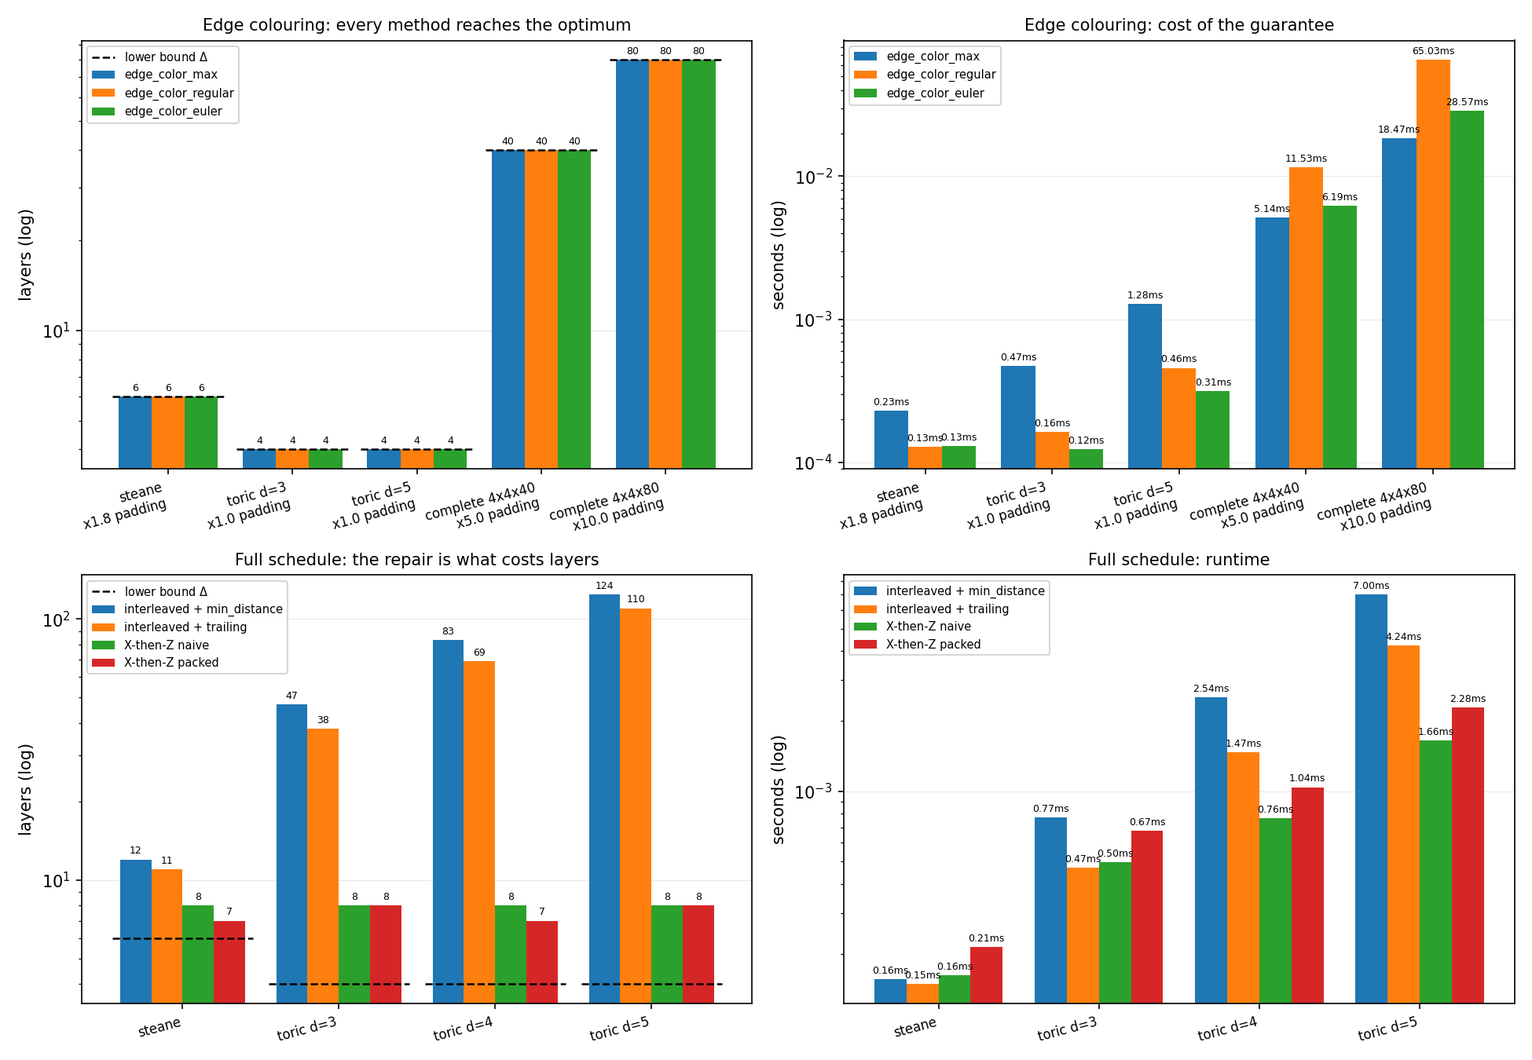
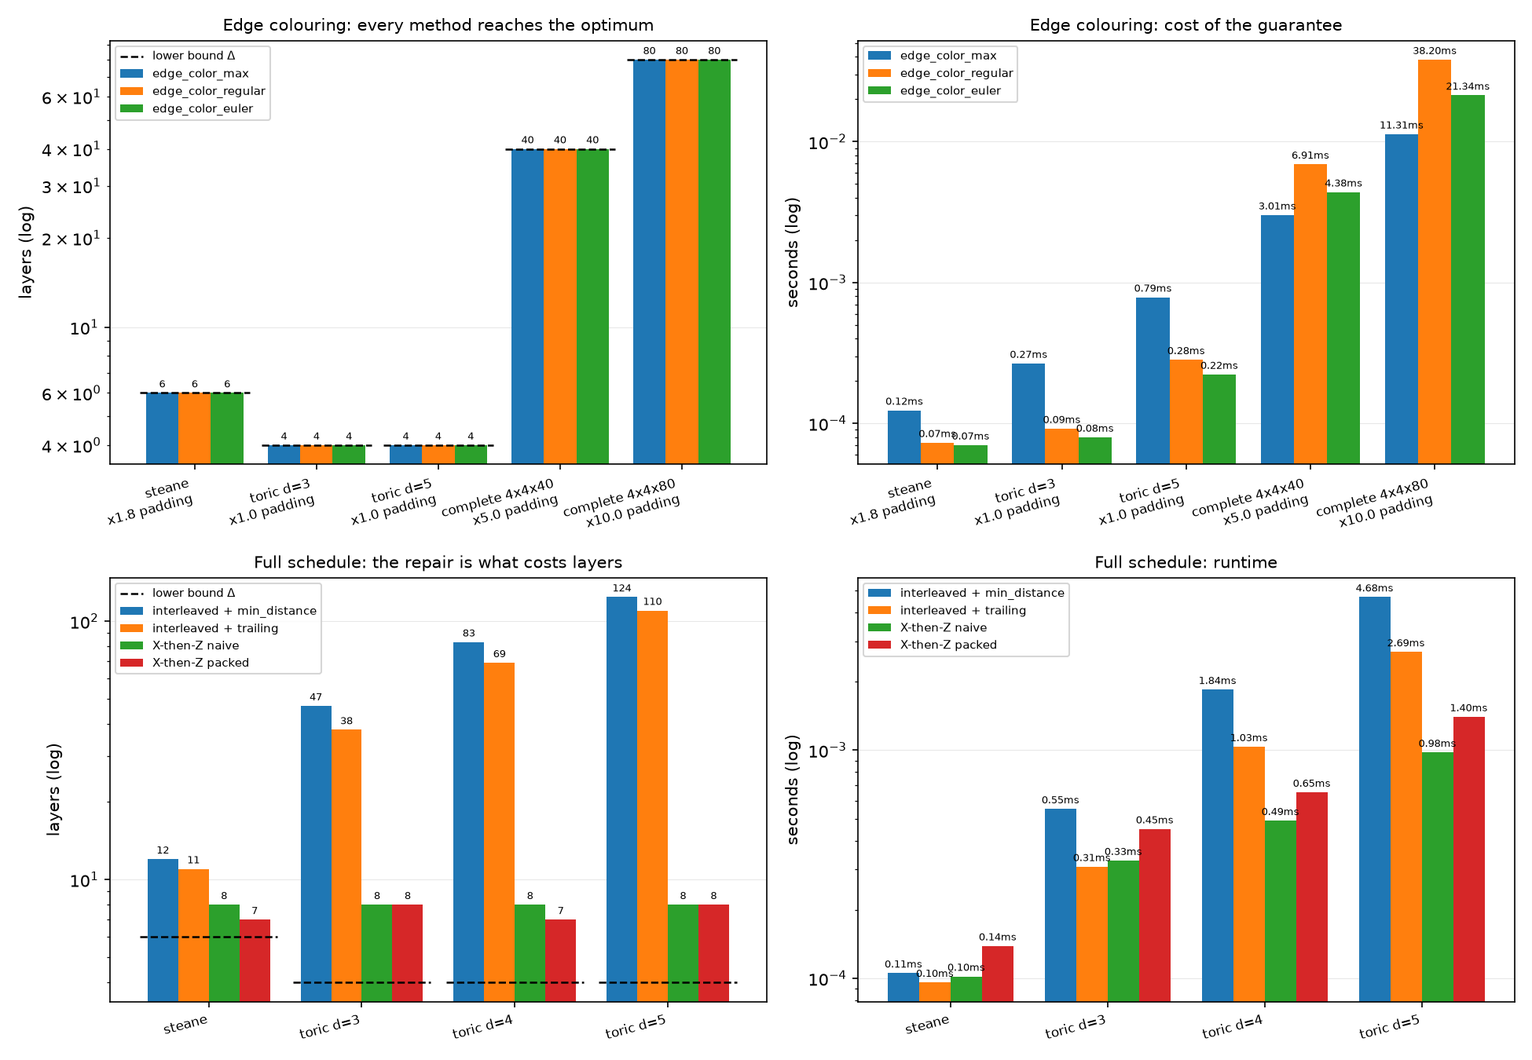
Final touches

diff --git a/README.md b/README.md
@@ -1,4 +1,4 @@
-# River Lane Technical Challenege
+# River Lane Technical Challenge
 
 _written by **Vlad Filip**_
 
@@ -18,14 +18,14 @@ Run `python main.py` to reproduce the comparison of every method described below
 * `tests.py` = unit tests
 
 ## Edge Coloring
-A bipartite graph is a network whose vertices can be split into two groups. Edges on a bipartite graph exclusively connect vertices from different groups, never from the same group. The task of assigning each edge to a layer is effectively an edge coloring algorithm, where no layer contains two edges incident on the same vertex. Edge coloring is a well studied problem within mathematics, where the Koning's line coloring theorem states that the chromatic index of a bipartite graph equals its maximum degree ($\Delta$). This means that the optimal number of layers for a bipartite graph is equal to the $\Delta$.
+A bipartite graph is a network whose vertices can be split into two groups. Edges on a bipartite graph exclusively connect vertices from different groups, never from the same group. The task of assigning each edge to a layer is effectively an edge coloring algorithm, where no layer contains two edges incident on the same vertex. Edge coloring is a well studied problem within mathematics, where the König's line coloring theorem states that the chromatic index of a bipartite graph equals its maximum degree ($\Delta$). This means that the optimal number of layers for a bipartite graph is equal to the $\Delta$.
 
 I have considered 3 ways in which the edge coloring of a bipartite graph can be solved:
-1. **Hopcroft-Karp Algorithm:** A fundamental algorithm with a time complexity of $O(\Delta E\sqrt{V})$. This extracts the maximum matching (a layer of maximum members) from the bipartite graph by runing zig-zags between the vertices. The idea of this approach rests on augmenting paths that alternate between free-edge, matched-edge, free-edge, etc.. It does this in two steps: a breadth-first search (a) and a depth-first search (it flips the defined connection in the layer zig-zag). In the (a) search, we check where the nearest augmenting path is and label every vertex in its depth. An unmatched data qubit starts at depth 0. Starting at a node `u`, it finds an umatch vertex `v` and then jumps to its matched pair `pair_v[v]`. This is the zig-zag pattern. The algorithm extracts one matching, then removes the edges from the current bipartite graph and recurses until the graph is empty. Yet, we need to ensure that vertices are balanced as the algorithm iterates so that we are not left with a node with a high degree at the end. This will cause the solution to be suboptimal as we need to spill the edges of that vertex to additional layers. I considered two approaches to this problem:
+1. **Hopcroft-Karp Algorithm:** A fundamental algorithm with a time complexity of $O(\Delta E\sqrt{V})$. This extracts the maximum matching (a layer of maximum members) from the bipartite graph by running zig-zags between the vertices. The idea of this approach rests on augmenting paths that alternate between free-edge, matched-edge, free-edge, etc. It does this in two steps: a breadth-first search (a) and a depth-first search (it flips the defined connection in the layer zig-zag). In the (a) search, we check where the nearest augmenting path is and label every vertex in its depth. An unmatched data qubit starts at depth 0. Starting at a node `u`, it finds an unmatched vertex `v` and then jumps to its matched pair `pair_v[v]`. This is the zig-zag pattern. The algorithm extracts one matching, then removes the edges from the current bipartite graph and recurses until the graph is empty. Yet, we need to ensure that vertices are balanced as the algorithm iterates so that we are not left with a node with a high degree at the end. This will cause the solution to be suboptimal as we need to spill the edges of that vertex to additional layers. I considered two approaches to this problem:
 
-    * **Maximizing the cover of a layer**, so no $\Delta$-degree vertex is skipped. The HK algorithm maximizes the number of pairs, not which pairs. A graph has different maximum matchings and HP gives you an arbitrary one, running the risk of the additional layers mentioned above. To correct this, after each HK run I take every uncovered $\Delta$-degree vertex and walk an alternating path from it until I reach a vertex that is not itself $\Delta$-degree, then flip that path. The critical vertex takes the slot and the expendable one gives it up, so the matching stays the same size and is still maximum. Each walk is a single BFS at $O(V + E)$, run once per uncovered vertex, so the repair adds $O(k(V+E))$ per layer, with $k$ usually 0 or 1. The gain is worth it: on Steane, plain HK peeling needs 8 layers against a lower bound of 6, and this repair recovers the optimal 6. Across 2000 random sparse Tanner graphs, plain peeling exceeded $\Delta$ in 13.4% of cases while the repaired version never did. Its weakness is that it remains a heuristic with no proof, since it only guarantees coverage in the current layer and the residual graph has a fresh max-degree set once that layer is peeled.
+    * **Maximizing the cover of a layer**, so no $\Delta$-degree vertex is skipped. The HK algorithm maximizes the number of pairs, not which pairs. A graph has different maximum matchings and HK gives you an arbitrary one, running the risk of the additional layers mentioned above. To correct this, after each HK run I take every uncovered $\Delta$-degree vertex and walk an alternating path from it until I reach a vertex that is not itself $\Delta$-degree, then flip that path. The critical vertex takes the slot and the expendable one gives it up, so the matching stays the same size and is still maximum. Each walk is a single BFS at $O(V + E)$, run once per uncovered vertex, so the repair adds $O(k(V+E))$ per layer, with $k$ usually 0 or 1. The gain is worth it: on Steane, plain HK peeling needs 8 layers against a lower bound of 6, and this repair recovers the optimal 6. Across 2000 random sparse Tanner graphs, plain peeling exceeded $\Delta$ in 13.4% of cases while the repaired version never did. Its weakness is that it remains a heuristic with no proof, since it only guarantees coverage in the current layer and the residual graph has a fresh max-degree set once that layer is peeled.
 
-    * **Padding to a $\Delta$-regular graph**, which makes every matching perfect. By creating virtual edges and nodes to our graph to ensure a $\Delta$-regular pattern, this guratees that the algorithm would return $\Delta$ layers by peeling exactly $\Delta$ edges with one matching. This means that after we have constructed our layer matching we can remove the virtual edges and vertex and obtain a valid edge coliring solution. While this is guranteed to succeed mathematically, needs no extra validation but has an added time complexity. To build the padded graph, we scale to O(n $\Delta$), where n is the maximum number of vertices from one side of the bipartite graph. This means that if E for the padded graph is much larger than the actual E, the algorithm would be slower. Therefore, padding costs us a factor of $n\Delta / E$, which is itself a measure of how uneven the graph is: it equals 1 when the graph is already $\Delta$-regular and balanced, and grows as a single vertex starts to dominate. This is why the method suits the problem at hand. CSS codes are LDPC by construction, with a fixed stabilizer weight and a fixed qubit degree, so the ratio sits at or near 1 across the whole family. My toric graphs are already 4-regular, so padding adds zero edges and the guarantee comes for free; measured, it also runs about 2.5x faster than the repair route because it skips the repair entirely. Steane is small and lopsided (qubit 6 has degree 6, qubit 0 has degree 2) so it pays 1.75x, which still amounts to under a tenth of a millisecond.
+    * **Padding to a $\Delta$-regular graph**, which makes every matching perfect. By creating virtual edges and nodes to our graph to ensure a $\Delta$-regular pattern, this guarantees that the algorithm would return $\Delta$ layers by peeling exactly $\Delta$ edges with one matching. This means that after we have constructed our layer matching we can remove the virtual edges and vertex and obtain a valid edge coloring solution. While this is guaranteed to succeed mathematically, needs no extra validation but has an added time complexity. To build the padded graph, we scale to O(n $\Delta$), where n is the maximum number of vertices from one side of the bipartite graph. This means that if E for the padded graph is much larger than the actual E, the algorithm would be slower. Therefore, padding costs us a factor of $n\Delta / E$, which is itself a measure of how uneven the graph is: it equals 1 when the graph is already $\Delta$-regular and balanced, and grows as a single vertex starts to dominate. This is why the method suits the problem at hand. CSS codes are LDPC by construction, with a fixed stabilizer weight and a fixed qubit degree, so the ratio sits at or near 1 across the whole family. My toric graphs are already 4-regular, so padding adds zero edges and the guarantee comes for free; measured, it also runs about 2.5x faster than the repair route because it skips the repair entirely. Steane is small and lopsided (qubit 6 has degree 6, qubit 0 has degree 2) so it pays 1.75x, which still amounts to under a tenth of a millisecond.
 
 2. **Euler Splitting:** halving the degree along closed walks, $O(E\log\Delta)$ when $\Delta$ is a power of two and $O(E\sqrt{V}\log\Delta)$ in the worst case. This algorithm is built on the divide-et-impera approach (divide and conquer). Once the graph is padded every vertex has exactly $\Delta$ edges, and while that degree is even a walk always consumes edges at a vertex in arrive/leave pairs. We then split the edges of that walk alternately into two piles. This hands every vertex exactly half of its edges, which cuts the graph into two. We keep doing this until the degree reaches 1, at which point every vertex has a single edge. This means the pile is a perfect matching (one layer). The halving breaks down as soon as a degree is odd. When we have an odd case, we peel one perfect matching with Hopcroft-Karp first to return to an even degree. This remains the only place a matching is ever computed. Hence, it is what separates the best and worst cases: $\Delta = 4$ on a toric code halves to 2 and then to 1 without ever becoming odd. Yet, $\Delta = 6$ on Steane halves into two odd 3-regular graphs and needs two. Edges are tracked by their index into a flat list rather than by their endpoints. This is because padding can add several parallel edges between the same pair of vertices and only an index can tell them apart. 
 
@@ -36,31 +36,31 @@ The ordering constraint requires every X/Z check pair to share an even number of
 
 ### Ordering Fixes
 
-Once we obtained a valid edge coloring solution with $\Delta$ layers, we need to ensure the schedule respects the ordering constraint. A function called `check_ordering_constraint` iterates over the graph and check all the dictionary X-then-Z parities. It returns a broken list containing tuples of the (x, z) broken pair, as well as the `S` (parity check group) and `I` (data qubits of the ancilla pair) lists. To do this, I consider to post-coloring methods:
+Once we obtained a valid edge coloring solution with $\Delta$ layers, we need to ensure the schedule respects the ordering constraint. A function called `check_ordering_constraint` iterates over the graph and checks all the dictionary X-then-Z parities. It returns a broken list containing tuples of the (x, z) broken pair, as well as the `S` (parity check group) and `I` (data qubits of the ancilla pair) lists. To do this, I consider two post-coloring methods:
 
-1. **The minimum distance method** goes over each broken state and picks the shared qubit where two checks sit closest together in time/layer. Whichever of the two is currently earlier gets delayed to sit just after the later one. This is intended to flip the relative order of exactly one qubit, flipping the parity of `S`. It does this by inserting a fresh layer in the middle. The consequence of this method is that it gives exactly one new layer per repair. On my fixtures the final depth is always exactly $\Delta$ plus the number of repairs (Steane $6+6=12$, toric $d=5$ $4+120=124$). It also has to be run for several passes, because flipping the order at a qubit `d` also flips the parity of every other pair sharing `d`, so a repair can break pairs that were previously fine For instance, toric $d=5$ starts with 100 broken pairs and needs 120 repairs across 3 passes. The growth in layers is linear in the number of repairs, leaving the depth scaling with code size while $\Delta$ stays at 4. The time complexity of this method is $O(B \cdot E)$ per pass for $B$ broken pairs.
+1. **The minimum distance method** goes over each broken state and picks the shared qubit where two checks sit closest together in time/layer. Whichever of the two is currently earlier gets delayed to sit just after the later one. This is intended to flip the relative order of exactly one qubit, flipping the parity of `S`. It does this by inserting a fresh layer in the middle. The consequence of this method is that it gives exactly one new layer per repair. On my fixtures the final depth is always exactly $\Delta$ plus the number of repairs (Steane $6+6=12$, toric $d=5$ $4+120=124$). It also has to be run for several passes, because flipping the order at a qubit `d` also flips the parity of every other pair sharing `d`, so a repair can break pairs that were previously fine. For instance, toric $d=5$ starts with 100 broken pairs and needs 120 repairs across 3 passes. The growth in layers is linear in the number of repairs, leaving the depth scaling with code size while $\Delta$ stays at 4. The time complexity of this method is $O(B \cdot E)$ per pass for $B$ broken pairs.
 
-2. **The trailing layer method** builds on the above fix but instead of a mid-schedule insertion, it adds a trailing layer. The packing is what makes this better in layer count. `used_d` and `used_check` record what's already sitting in the current trailing layer. A new repair joins that same layer unless it would collide, in which case the algorithm moves the trailing layer one step down. It makes more repairs than mininum distance because it picks the qubit lazily. Yet, it ends up with fewer layers because of the packing, fitting roughly 1.4 to 1.6 repairs into every trailing layer (Steane packs 8 repairs into 5 extra layers for 11 total, toric $d=5$ packs 150 repairs into 106 extra layers for 110 total). Additionally, it runs faster since each repair here is only a dictionary write and two set insertions rather than a full swee. The time complexity of this method is $O(B)$ per pass for $B$ broken pairs. Yet, it still suffers the same fundamental problem as minimum distance: the depth continues to grow with the number of broken pairs and the size of the code.
+2. **The trailing layer method** builds on the above fix but instead of a mid-schedule insertion, it adds a trailing layer. The packing is what makes this better in layer count. `used_d` and `used_check` record what's already sitting in the current trailing layer. A new repair joins that same layer unless it would collide, in which case the algorithm moves the trailing layer one step down. It makes more repairs than minimum distance because it picks the qubit lazily. Yet, it ends up with fewer layers because of the packing, fitting roughly 1.4 to 1.6 repairs into every trailing layer (Steane packs 8 repairs into 5 extra layers for 11 total, toric $d=5$ packs 150 repairs into 106 extra layers for 110 total). Additionally, it runs faster since each repair here is only a dictionary write and two set insertions rather than a full sweep. The time complexity of this method is $O(B)$ per pass for $B$ broken pairs. Yet, it still suffers the same fundamental problem as minimum distance: the depth continues to grow with the number of broken pairs and the size of the code.
 
 ### Multigraph & Bin Packing
-The multigraph approach ensures the ordering constraint holds by splitting the bipartite graph into two smaller graphs (one for X checks and one for Z checks). We then run edge coloring on each sub-graph and obtaina valid scheduling for those checks. Combining the two obtained schedules into one valid solution is approached in two ways:
+The multigraph approach ensures the ordering constraint holds by splitting the bipartite graph into two smaller graphs (one for X checks and one for Z checks). We then run edge coloring on each sub-graph and obtain a valid scheduling for those checks. Combining the two obtained schedules into one valid solution is approached in two ways:
 
-1. **The naive method** simply appends the Z layers to the X layers. This ensures that every Z ancilla comes after all the X ancillas, respecting the ordering constrained. However, this method will have a larger schedule than the optimal $\Delta$ because the layers will be equal to the sum of the maximum degrees of the X and Z sub-graaphs. However, there will be no need for a ordering fix or any post coloring manupilation, simply the O(1) append operation.
+1. **The naive method** simply appends the Z layers to the X layers. This ensures that every Z ancilla comes after all the X ancillas, respecting the ordering constraint. However, this method will have a larger schedule than the optimal $\Delta$ because the layers will be equal to the sum of the maximum degrees of the X and Z sub-graphs. However, there will be no need for an ordering fix or any post coloring manipulation, simply the O(1) append operation.
 
-2. **The bin packing method** takes schedule from the Z graph and for an edge (d, z) it checks the last appearance of the d quibit in the X schedule. It then places the edge, if the coloring scheme allows, in the imediate X layer after and removes it from the Z schedule. If the last appearance of qubit d is in the last layer of the X graph, it then keeps it in the Z graph and appends the edge similarly to the naive methods. This algorithm has a time complexity of $O(E\Delta)$ for the packing loop itself, since each Z edge scans at most $\Delta_x$ candidate layers and every slot test is an $O(1)$ set lookup. The leftover edges that never found a free slot are then coloured again with `edge_color_regular` at $O(\Delta E\sqrt{V})$, which dominates, so the combine step sits in the same complexity class as the colouring it builds on and the packing is asymptotically free.
+2. **The bin packing method** takes schedule from the Z graph and for an edge (d, z) it checks the last appearance of the d qubit in the X schedule. It then places the edge, if the coloring scheme allows, in the immediate X layer after and removes it from the Z schedule. If the last appearance of qubit d is in the last layer of the X graph, it then keeps it in the Z graph and appends the edge similarly to the naive methods. This algorithm has a time complexity of $O(E\Delta)$ for the packing loop itself, since each Z edge scans at most $\Delta_x$ candidate layers and every slot test is an $O(1)$ set lookup. The leftover edges that never found a free slot are then coloured again with `edge_color_regular` at $O(\Delta E\sqrt{V})$, which dominates, so the combine step sits in the same complexity class as the colouring it builds on and the packing is asymptotically free.
 
 ## CSS Test Data
-A Calderbank–Shor–Steane (CSS) code are graph networks of real qubits and ancilla qubits (checks) used to encode logical information. They use stabilizers to correct errors in magnitude (X stablizers), phase (Z) or both (Y). In my solution, I used two types of CSS to test my algorithms: Steane (which encodes one logical qubit using 7 physical qubits, being a fixed small block with maximum degree 6 and minimum degree 2) and toric (a code which puts qubits on the edges of a 2D periodic lattice and ancillas on the star and plaquette configurations, having a degree of 4 across).
+A Calderbank–Shor–Steane (CSS) code are graph networks of real qubits and ancilla qubits (checks) used to encode logical information. They use stabilizers to correct errors in magnitude (X stabilizers), phase (Z) or both (Y). In my solution, I used two types of CSS to test my algorithms: Steane (which encodes one logical qubit using 7 physical qubits, being a fixed small block with maximum degree 6 and minimum degree 2) and toric (a code which puts qubits on the edges of a 2D periodic lattice and ancillas on the star and plaquette configurations, having a degree of 4 across).
 
 ## Results
 The graph below presents the results of the algorithms I have described above:
 
 ![Layers and runtime for each colouring and scheduling algorithm](results.png)
 
-For edge coloring, all three algorithms hit the $\Delta$ lower bound on every fixture in under a millisecond. Hence, the choice between them rests on the padding cost rather than on quality. That cost only bites on the lopsided complete graphs (x10 padding makes `edge_color_regular` roughly three times slower than `edge_color_max`, while on the near-regular toric codes padding is free and it wins). 
+For edge coloring, all three algorithms hit the $\Delta$ lower bound on every fixture in under a millisecond on the CSS codes. Hence, the choice between them rests on the padding cost rather than on quality. That cost only bites on the lopsided complete graphs (x10 padding makes `edge_color_regular` roughly three times slower than `edge_color_max`, while on the near-regular toric codes padding is free and it wins). 
 
-The bottom-left panel shows that the ordering constraint, not the colouring, is what actually drives the layer count. Therefore, I see the difficult part of this exercises in meeting the ordering constraint. Repairing an interleaved colouring degrades badly as the code grows, reaching 124 layers on toric $d=5$ against a lower bound of 4. By comparison, the X-then-Z construction stays flat at 7-8 layers on every fixture. I'd therefore pick **X-then-Z with the packed combiner**, since it is correct by construction and never worse on layers than the naive (improves/stays within roughly $2\Delta$ as code scales). However, I am aware of the slowness cost of it compared to the naive method. Hence, it depends on what the speed is able to tolerate.
+The bottom-left panel shows that the ordering constraint, not the colouring, is what actually drives the layer count. Therefore, I see the difficult part of this exercise in meeting the ordering constraint. Repairing an interleaved colouring degrades badly as the code grows, reaching 124 layers on toric $d=5$ against a lower bound of 4. By comparison, the X-then-Z construction stays flat at 7-8 layers on every fixture. I'd therefore pick **X-then-Z with the packed combiner**, since it is correct by construction and never worse on layers than the naive. However, I am aware of the slowness cost of it compared to the naive method. Hence, it depends on what the speed is able to tolerate.
 
-## Futher Improvements and Other Considerations
-If given more time, I would have looked to implement the Cole–Ost–Schirra edge coloring scheme. More importantly, I've considered different way of packing the X-then-Z bipartite graphs to reduce the layer closer to the optimal. I would look at exploiting the even parity by grouping edges from the Z graph and find a way to insert them in existing X layers, breaking the Z always comes after rule, but ensuring parity by the Z groupings. However, this approach could break the parity of unintended (x,z) pairs so it would need carefull consideration.
+## Further Improvements and Other Considerations
+If given more time, I would have looked to implement the Cole–Ost–Schirra edge coloring scheme. More importantly, I've considered different ways of packing the X-then-Z bipartite graphs to reduce the layer closer to the optimal. I would look at exploiting the even parity by grouping edges from the Z graph and find a way to insert them in existing X layers, breaking the Z always comes after rule, but ensuring parity by the Z groupings. However, this approach could break the parity of unintended (x,z) pairs so it would need careful consideration.
 
